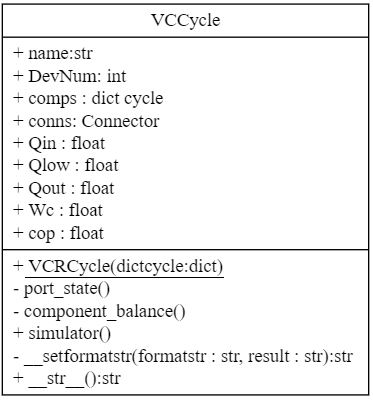
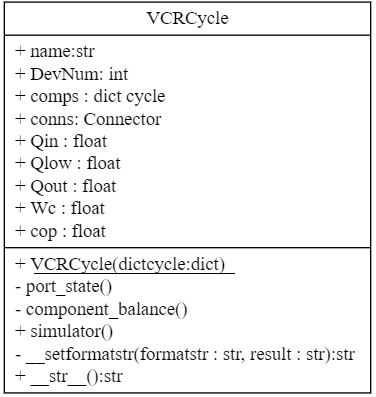
cleanup

Changed region(s): [[0.0, 0.0, 1.0, 0.9975], [0.059, 0.9068, 0.118, 0.937]]

diff --git a/README.md b/README.md
@@ -66,23 +66,15 @@ The mass flow rate of the refrigerant is 0.08 kg/s.
  
  * (c) the coefficient of performance
 
-## The UML Diagrams
+## The UML Class Diagrams
 
-### components package
+### The component classes  
 
 ![](./uml/uml-components-classes.jpg)
 
-![](./uml/uml-components-package.jpg)
-
-### vcc package
+### The VCRCycle Class
 
 ![](./uml/uml-vcrcycle.jpg)
-
-![](./uml/uml-vcc-package.jpg)
-
-### vccapp
-
-![](./uml/uml-vccapp.jpg)
 
 ## The flowchart of the cycle analysis
 
